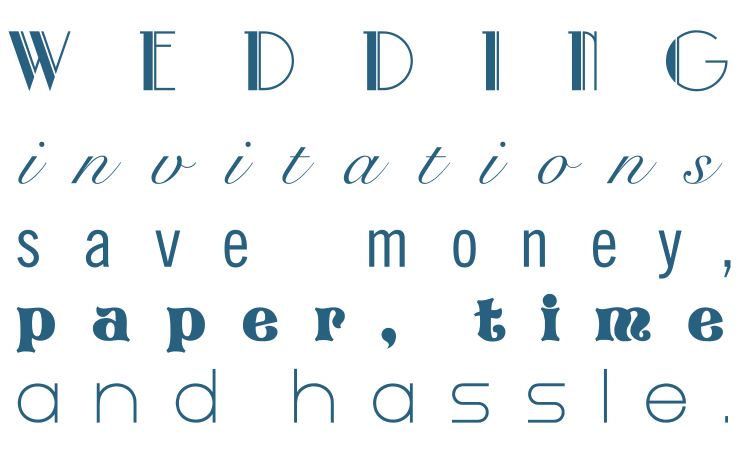
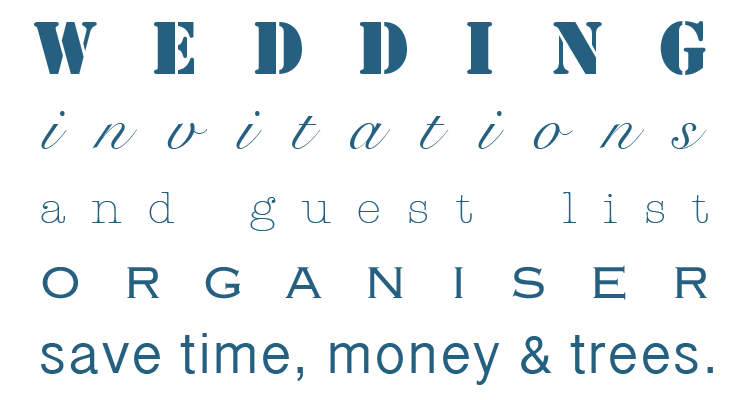
changed value prop wording and changed text spacing

diff --git a/app/assets/stylesheets/site/application.css.less b/app/assets/stylesheets/site/application.css.less
@@ -53,12 +53,20 @@ h2 {
     border-top: 3px @copper solid;
     border-bottom: 3px @copper solid; }
 
+p {
+    margin-left: 10px;
+    margin-right: 10px;
+    text-align: justify; }
+
 .overlay {
     width: 100%;
     position: absolute;
     left: 0px;
     z-index: 300;
-    top: 405px; }
+    top: 375px; }
+
+.brand-spacer {
+  height: 165px; }
 
 .shadow-wrap {
     /* IE box shadow start */
@@ -75,7 +83,7 @@ h2 {
 .login-signup {
     list-style: none;
     padding: 0px;
-    margin: 200px 0px 40px 0px;
+    margin: 40px 0px 40px 0px;
     li:hover {
         background-color: darken(@baby_blue, 5%); } }
 
@@ -185,19 +193,18 @@ h2 {
 // Landscape phone to portrait tablet
 @media (max-width: 767px) {
     .overlay {
-        top: 450px; } }
+        top: 410px; } }
 
 // Landscape phones and down
 @media (max-width: 480px) {
     .overlay {
-        top: 380px;
+        top: 365px;
         h1 {
             height: 95px;
             background-size: 460px 77px; } }
 
-    .login-signup {
-        margin-bottom: 40px;
-        margin-top: 100px; }
+    .brand-spacer {
+      height: 100px; }
 
     .stripes img {
         width: 325px; }
@@ -245,14 +252,14 @@ h2 {
         width: 725px;
     }
     .overlay {
-        top: 335px;
+        top: 325px;
         h1 {
             height: 95px;
             background-size: 540px 90px; } }
-    .login-signup {
-        margin-top: 110px; } }
+    .brand-spacer {
+      height: 110px; } }
 
 // Large desktop
 @media (min-width: 1200px) {
   .overlay {
-      top: 450px; } }
+      top: 410px; } }
